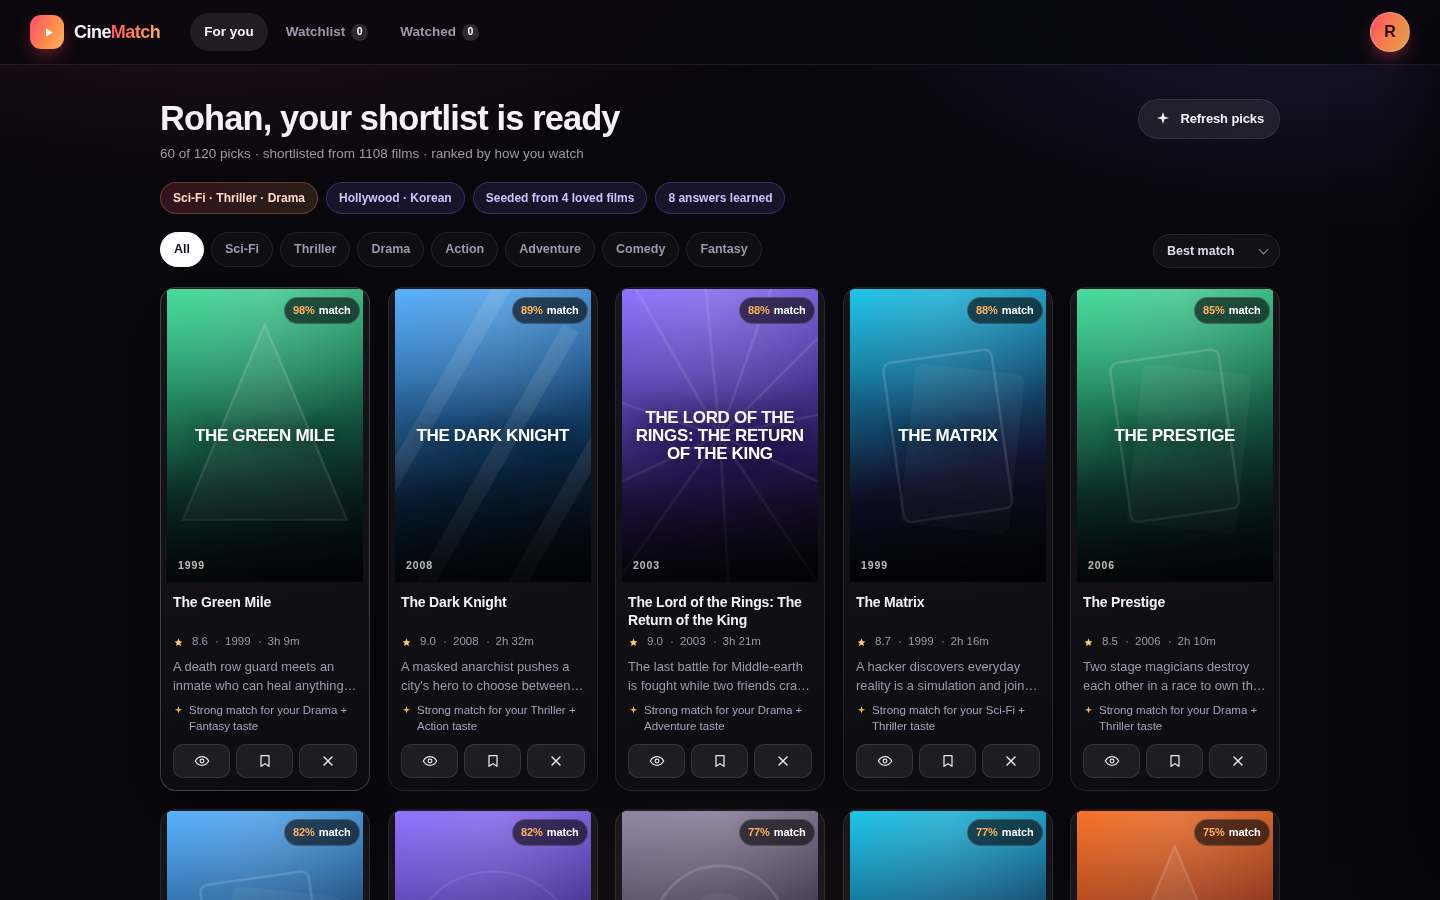
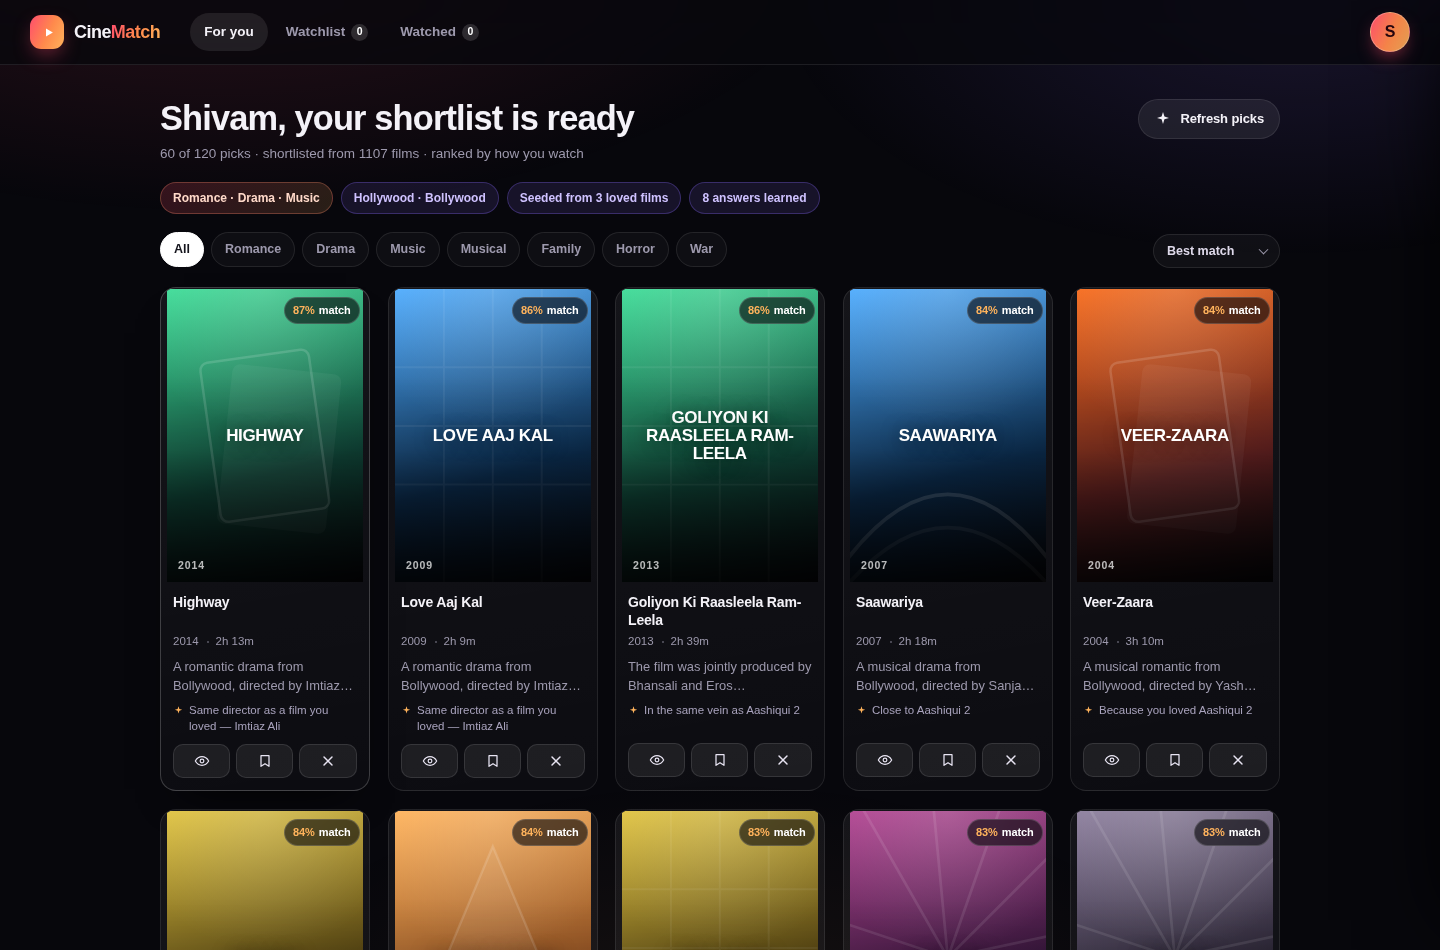
fix: consonant-skeleton matching made 'aattam' a 95% match for 'About Time'
Skeletons shorter than four characters ('tm' for both 'aattam' and 'time') produced
confident wrong matches. Skeleton matching now needs a skeleton worth comparing, so
unknown titles fall through to the honest gap panel and the web lookup instead.
Verified: aattam/aata/jigra -> nothing, while incepton/shawshenk/intersteller/3 idots
still resolve.

diff --git a/src/engine.js b/src/engine.js
@@ -98,8 +98,14 @@ function tokenScore(query, title) {
   const lr = levRatio(qa, ta);
   score = Math.max(score, lr * (0.94 + 0.06 * coverage));
 
-  const sk = levRatio(skeleton(qa), skeleton(ta));
-  if (sk > 0.86) score = Math.max(score, sk * 0.9);
+  // Skeleton matching only works when there is a skeleton to speak of: "aattam"
+  // and "time" both collapse to "tm", which used to make them a 95% match.
+  const skQ = skeleton(qa);
+  const skT = skeleton(ta);
+  if (skQ.length >= 4 && skT.length >= 4) {
+    const sk = levRatio(skQ, skT);
+    if (sk > 0.86) score = Math.max(score, sk * 0.9);
+  }
 
   // every meaningful word of the title present (in any order)
   if (coverage === 1 && precision >= 0.8) score = Math.max(score, 0.93);
@@ -112,8 +118,11 @@ function tokenScore(query, title) {
         if (win.length < 4) continue;
         const wr = levRatio(qa, win);
         if (wr > 0.74) score = Math.max(score, Math.min(wr * STREAM, 0.995));
-        const wsr = levRatio(skeleton(qa), skeleton(win));
-        if (wsr > 0.9 && qa.length >= 6) score = Math.max(score, Math.min(wsr * STREAM, 0.99));
+        const skW = skeleton(win);
+        if (skQ.length >= 4 && skW.length >= 4 && qa.length >= 6) {
+          const wsr = levRatio(skQ, skW);
+          if (wsr > 0.9) score = Math.max(score, Math.min(wsr * STREAM, 0.99));
+        }
       }
     }
   }
